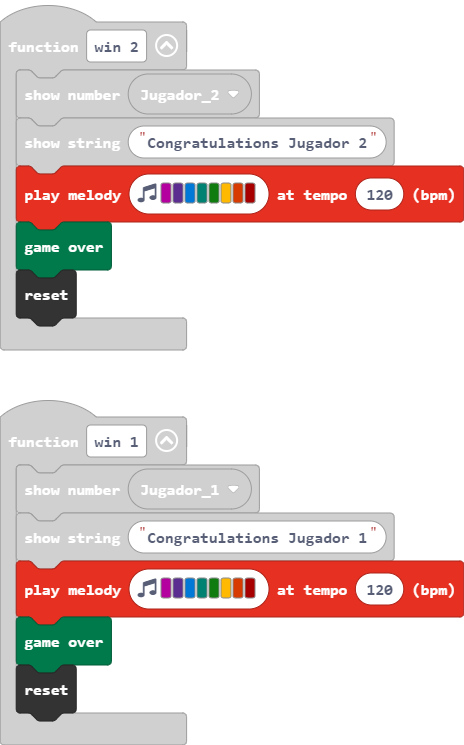
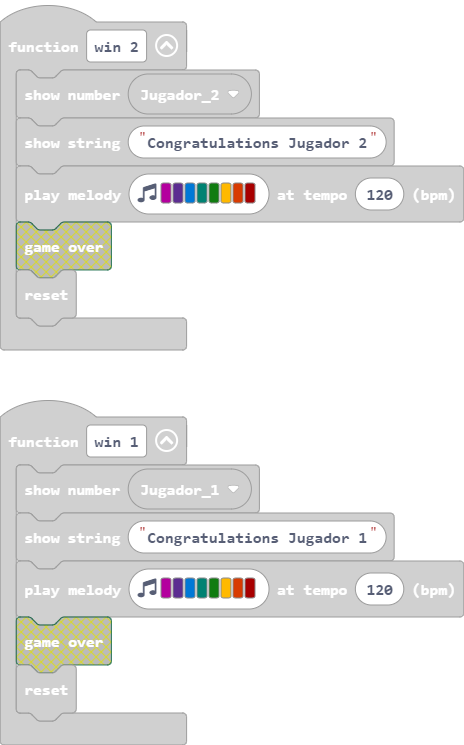
Update main.blocks, main.ts

Changed region(s): [[0.0302, 0.7409, 1.0, 0.9879], [0.0302, 0.2161, 1.0, 0.4631]]

diff --git a/main.ts b/main.ts
@@ -22,7 +22,6 @@ function win_1 () {
     basic.showNumber(Jugador_1)
     basic.showString("Congratulations Jugador 1")
     music.playMelody("C D E F G A B C5 ", 120)
-    game.gameOver()
     control.reset()
 }
 input.onButtonPressed(Button.B, function () {
@@ -36,7 +35,6 @@ function win_2 () {
     basic.showNumber(Jugador_2)
     basic.showString("Congratulations Jugador 2")
     music.playMelody("C D E F G A B C5 ", 120)
-    game.gameOver()
     control.reset()
 }
 input.onLogoEvent(TouchButtonEvent.Pressed, function () {
